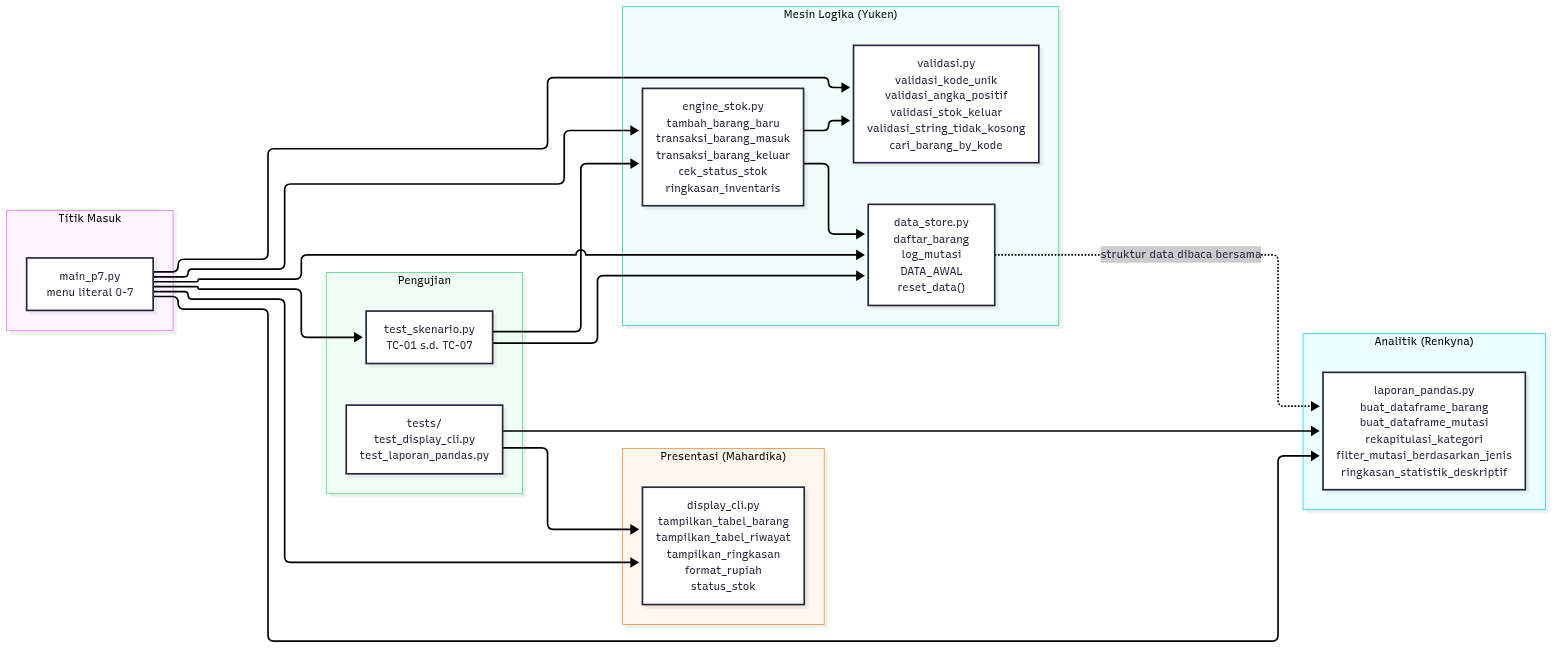
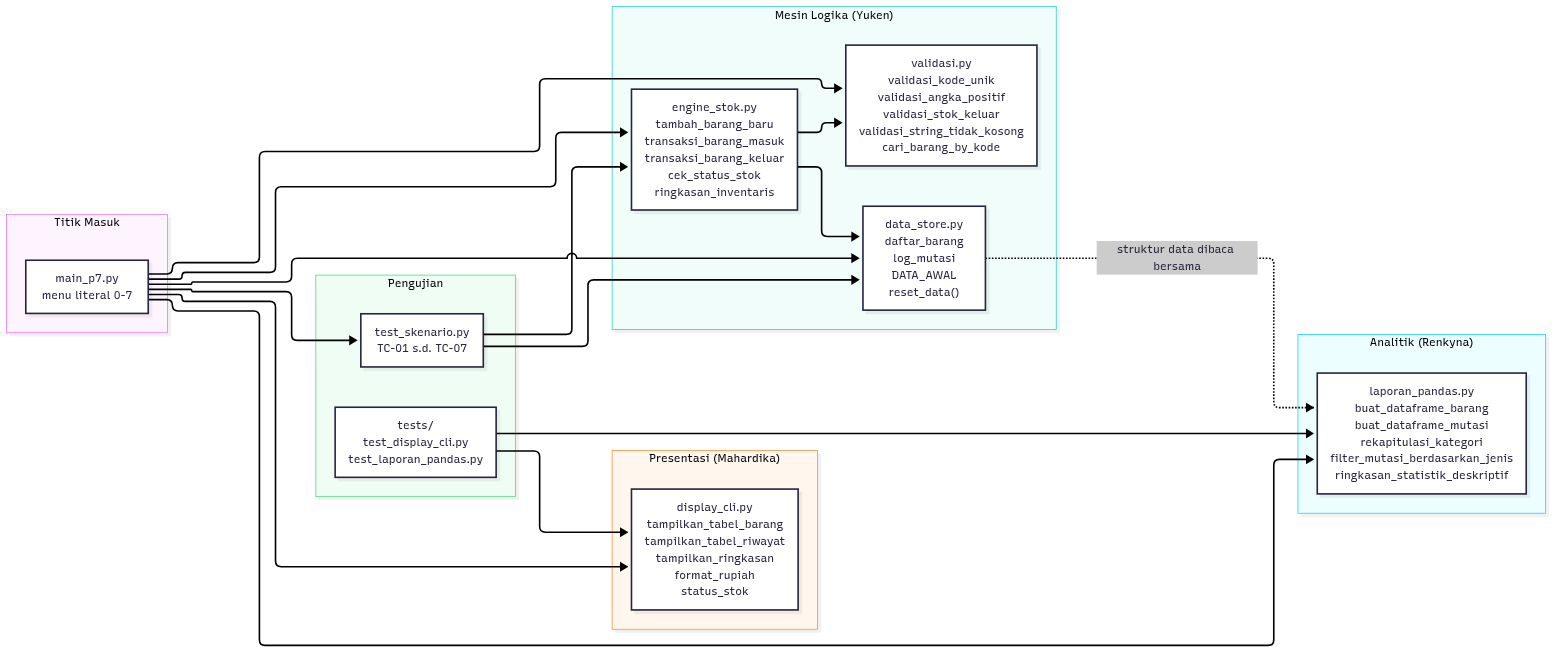
fix: hapus direktif init mermaid yang membuat diagram gagal render di GitHub

diff --git a/README.md b/README.md
@@ -81,7 +81,6 @@ Fitur di bawah ini benar-benar tersedia dan sudah diuji saat ini.
 ## Arsitektur Sistem
 
 ```mermaid
-%%{init: {"flowchart": {"nodeSpacing": 22, "rankSpacing": 30, "padding": 6}, "themeVariables": {"fontSize": "13px"}}}%%
 flowchart LR
     subgraph Entry["Titik Masuk"]
         MAIN["main_p7.py<br/>menu literal 0-7"]
@@ -185,7 +184,6 @@ Setiap elemen `log_mutasi` berbentuk 8-tuple berurutan:
 ## Alur Program Utama
 
 ```mermaid
-%%{init: {"flowchart": {"nodeSpacing": 22, "rankSpacing": 46, "padding": 8}, "themeVariables": {"fontSize": "13px"}}}%%
 flowchart LR
     A(["Mulai"]) --> B["tampilkan menu 0-7"]
     B --> C["input pilihan"]
@@ -205,7 +203,6 @@ flowchart LR
 ### Menu 1: Lihat Daftar Stok Barang & Status Kritis
 
 ```mermaid
-%%{init: {"flowchart": {"nodeSpacing": 22, "rankSpacing": 30, "padding": 6}, "themeVariables": {"fontSize": "13px"}}}%%
 flowchart TD
     A([Pilih menu 1]) --> B["Impor cetak_tabel_barang<br/>dari display_cli"]
     B --> C{"Import berhasil?"}
@@ -237,7 +234,6 @@ flowchart TD
 Ini menu paling panjang karena meminta delapan input berurutan, masing-masing dengan validasi sendiri.
 
 ```mermaid
-%%{init: {"flowchart": {"nodeSpacing": 22, "rankSpacing": 30, "padding": 6}, "themeVariables": {"fontSize": "13px"}}}%%
 flowchart TD
     A([Pilih menu 2]) --> B["input Kode Barang"]
     B --> C["validasi_kode_unik(kode, daftar_barang)<br/>strip lalu upper"]
@@ -306,7 +302,6 @@ flowchart TD
 ### Menu 3: Transaksi Barang Masuk (Restock)
 
 ```mermaid
-%%{init: {"flowchart": {"nodeSpacing": 22, "rankSpacing": 30, "padding": 6}, "themeVariables": {"fontSize": "13px"}}}%%
 flowchart TD
     A([Pilih menu 3]) --> B["input Kode Barang"]
     B --> C["cari_barang_by_kode(kode, daftar_barang)"]
@@ -337,7 +332,6 @@ flowchart TD
 Menu ini adalah inti aturan bisnis proyek.
 
 ```mermaid
-%%{init: {"flowchart": {"nodeSpacing": 22, "rankSpacing": 30, "padding": 6}, "themeVariables": {"fontSize": "13px"}}}%%
 flowchart TD
     A([Pilih menu 4]) --> B["input Kode Barang"]
     B --> C["cari_barang_by_kode(kode, daftar_barang)"]
@@ -352,7 +346,7 @@ flowchart TD
     I --> J["transaksi_barang_keluar(...)"]
     J --> K["validasi_stok_keluar(stok, jumlah)"]
     K --> L{"jumlah lebih besar dari stok?"}
-    L -->|"Ya"| M["return False<br/>'Stok tidak mencukupi. Sisa stok: N unit.'"]
+    L -->|"Ya"| M["return False<br/>'Stok tidak mencukupi.<br/>Sisa stok fisik: N satuan'"]
     M --> N["print batal<br/>stok TIDAK berubah<br/>log TIDAK bertambah"]
     L -->|"Tidak"| O["stok_sebelum = item['stok']<br/>item['stok'] -= jumlah"]
     O --> P["append tuple mutasi<br/>jenis KELUAR"]
@@ -374,7 +368,6 @@ flowchart TD
 ### Menu 5: Lihat Riwayat Mutasi Arus Barang
 
 ```mermaid
-%%{init: {"flowchart": {"nodeSpacing": 22, "rankSpacing": 30, "padding": 6}, "themeVariables": {"fontSize": "13px"}}}%%
 flowchart TD
     A([Pilih menu 5]) --> B["Impor cetak_log_mutasi<br/>dari display_cli"]
     B --> C{"Import berhasil?"}
@@ -408,7 +401,6 @@ flowchart TD
 Menu ini punya sub-menu sendiri dan bergantung pada pustaka `pandas`.
 
 ```mermaid
-%%{init: {"flowchart": {"nodeSpacing": 22, "rankSpacing": 30, "padding": 6}, "themeVariables": {"fontSize": "13px"}}}%%
 flowchart TD
     A([Pilih menu 6]) --> B["tampilkan_laporan_pandas(daftar_barang, log_mutasi)"]
     B --> C{"PANDAS_TERSEDIA?"}
@@ -449,7 +441,6 @@ flowchart TD
 ### Menu 7: Jalankan Skrip Uji Otomatis (7 Kasus Uji)
 
 ```mermaid
-%%{init: {"flowchart": {"nodeSpacing": 22, "rankSpacing": 30, "padding": 6}, "themeVariables": {"fontSize": "13px"}}}%%
 flowchart TD
     A([Pilih menu 7]) --> B["Impor jalankan_semua_pengujian<br/>dari test_skenario"]
     B --> C["reset_data()"]
@@ -479,7 +470,6 @@ flowchart TD
 ### Menu 0: Keluar dari Program
 
 ```mermaid
-%%{init: {"flowchart": {"nodeSpacing": 22, "rankSpacing": 30, "padding": 6}, "themeVariables": {"fontSize": "13px"}}}%%
 flowchart LR
     A([Pilih menu 0]) --> B["print 'Terima kasih.<br/>Program Stokku Desktop ditutup.'"]
     B --> C["break dari while True"]
